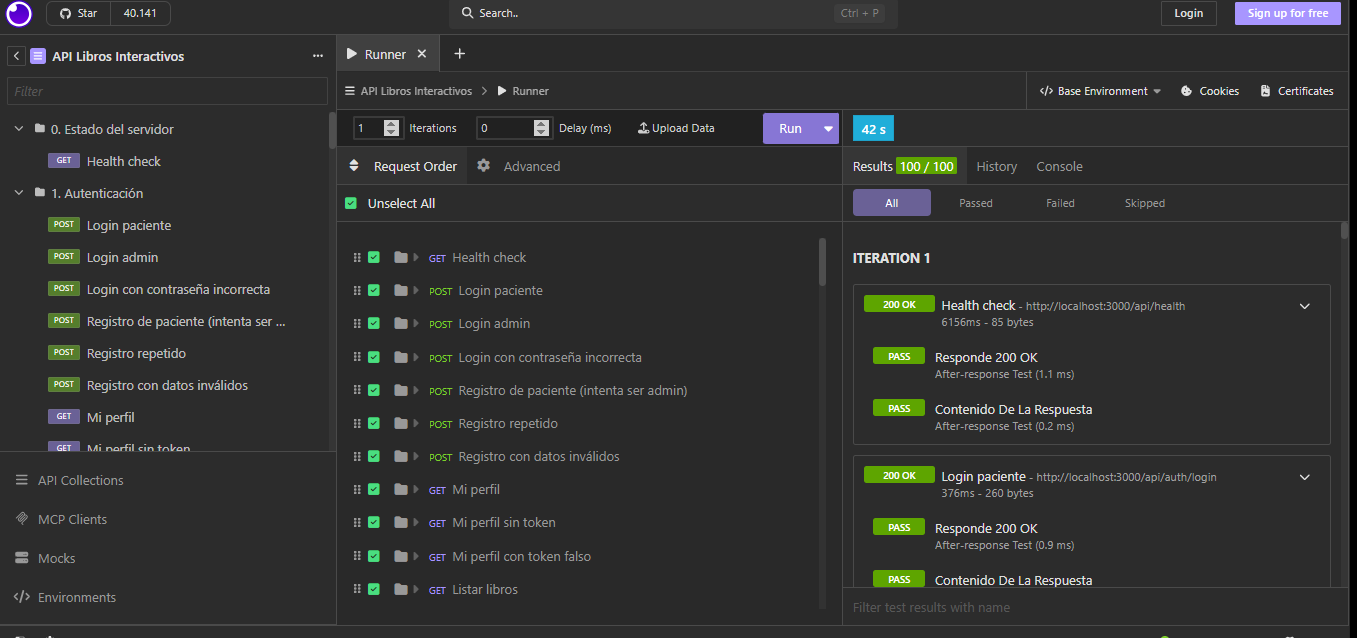
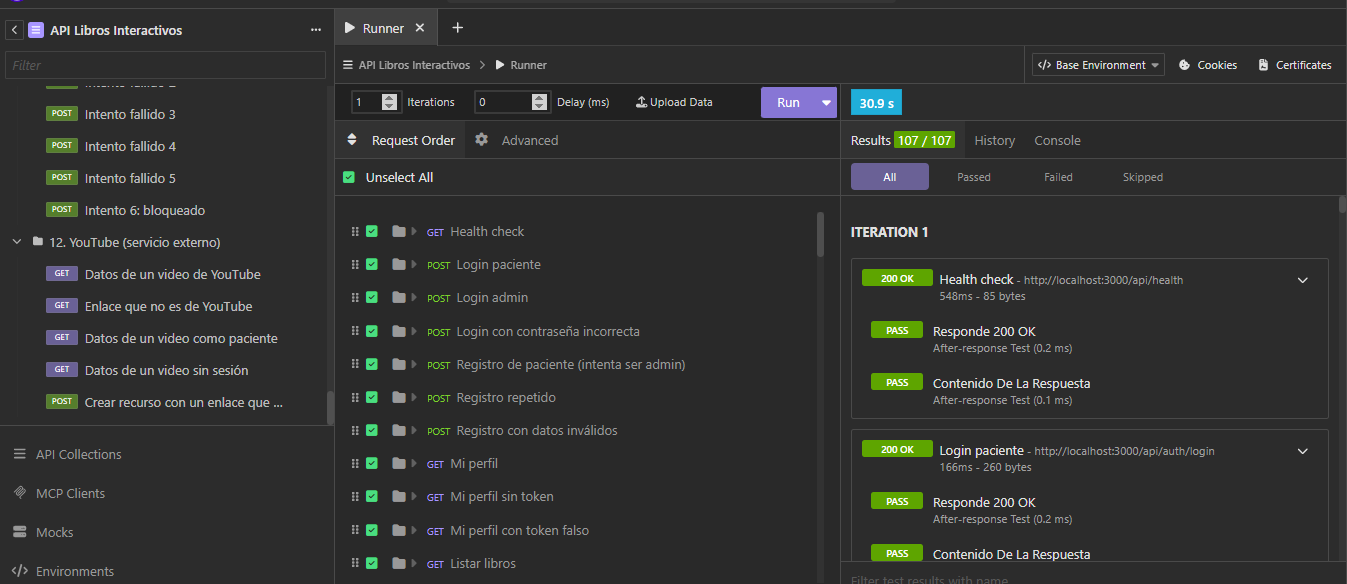
Documenta la integración con YouTube Data API (EF5)

diff --git a/README.md b/README.md
@@ -14,6 +14,7 @@
 - **Seguridad de la API (EF):** correcciones de la EP2: restricciones `CHECK` en la base de datos, desbloqueo progresivo de capítulos validado en la API (409), rol vigente en cada petición, límite de intentos de inicio de sesión (429) y `JWT_SECRET` de al menos 32 caracteres (`backend/src/`).
 - **Despliegue con Docker (EF):** Dockerfiles del backend y del frontend, nginx como servidor y proxy de la API, y `docker-compose.yml` para levantar base de datos, API y frontend.
 - **Frontend (EF):** pantallas de administración de capítulos, simulaciones (con sus opciones) y recursos, y pruebas de los interceptores de Axios con Vitest (frontend/src/services/api.test.ts).
+- **Servicio externo (EF5):** integración con la YouTube Data API para verificar los videos y obtener su duración, y botón *Completar con YouTube* en el formulario de recursos.
 - **Documentación y gestión:** README, documentación de la API, pruebas en Insomnia, ramas y evidencia de avance.
 
 ## Índice
@@ -40,6 +41,7 @@
     - [Autenticación y roles](#autenticación-y-roles)
     - [Seguridad de la API](#seguridad-de-la-api)
     - [Integración con el frontend](#integración-con-el-frontend)
+    - [Servicio externo: YouTube Data API (EF5)](#servicio-externo-youtube-data-api-ef5)
     - [Pruebas con Insomnia](#pruebas-con-insomnia)
 8. [Librerías y Tecnologías](#librerías-usadas-con-react-ionic)
 9. [Instalación y configuración](#instalación-y-configuración)
@@ -892,6 +894,7 @@ sequenceDiagram
 | Filtración de información | Los errores 500 no muestran detalles internos, el login usa un mensaje genérico y las estadísticas de pacientes muestran solo el alias. |
 | Cabeceras y orígenes | helmet agrega cabeceras HTTP de seguridad [[20]](#referencias), y CORS solo acepta peticiones del frontend (`CORS_ORIGIN`). |
 | Operaciones a medias | Se usan transacciones al crear una simulación con sus opciones y al reiniciar el progreso de un libro. |
+| Uso indebido de la clave de YouTube | Solo el administrador puede consultar `/api/youtube`. La clave está en `.env`, restringida a la YouTube Data API v3 en Google Cloud, y viaja en un encabezado, no en la URL. |
 | Secretos en el repositorio | `.env` está en `.gitignore`. Solo se sube `.env.example`, con valores de ejemplo. |
 
 ### Integración con el frontend
@@ -925,9 +928,38 @@ sequenceDiagram
 
 ![Decisión tomada en la aplicación guardada en la tabla decisiones](backend/docs/evidencias/pgadmin-decisiones.png)
 
+### Servicio externo: YouTube Data API (EF5)
+
+Casi todos los recursos multimedia de la aplicación son videos de YouTube. Para que el administrador no deje enlaces rotos ni tenga que escribir la duración a mano, la API se integra con la **YouTube Data API v3** de Google [[24]](#referencias).
+
+| Momento | Qué hace la API |
+| :--- | :--- |
+| Al crear o editar un recurso con un enlace de YouTube | Consulta el video. Si no existe, es privado o su dueño no permite reproducirlo fuera de YouTube, responde `400` y no guarda nada. Si existe, guarda su **duración real**. |
+| En el formulario de recursos, botón **Completar con YouTube** | `GET /api/youtube/video?url=...` (solo administrador) devuelve título, canal, miniatura y duración, y el formulario se completa solo. |
+| Siempre | Solo acepta enlaces que el reproductor de la app sabe usar: un video de YouTube o un archivo de audio o video (`.mp3`, `.m4a`, `.ogg`, `.wav`, `.mp4`, `.webm`). |
+
+**Cómo se maneja la integración:**
+- **Clave en variable de entorno:** `YOUTUBE_API_KEY` va en `backend/.env` (y en el `.env` de la raíz para Docker), nunca en el código. Se envía en el encabezado `X-Goog-Api-Key`, no en la URL, y en Google Cloud está restringida para usar solo la YouTube Data API v3.
+- **Errores:** si YouTube no responde en 5 segundos, se agotó la cuota o la clave no es válida, la API responde `503` con un mensaje claro y el detalle técnico queda solo en la terminal del servidor.
+- **Cuota:** cada consulta gasta 1 de las 10.000 unidades gratuitas diarias [[25]](#referencias). Los videos consultados se guardan en caché durante 1 hora para no gastar cuota repetida.
+- **Sin clave:** la aplicación sigue funcionando, pero los videos no se verifican (la API lo avisa al iniciar) y `GET /api/youtube/video` responde `503`.
+
+| Código | Cuándo |
+| :--- | :--- |
+| `200` | Se encontró el video (`GET /api/youtube/video`) |
+| `400` | El enlace no es de YouTube, el video no existe o es privado, o su dueño no permite insertarlo |
+| `401` / `403` | Sin sesión / la sesión no es de un administrador |
+| `503` | YouTube no responde, se agotó la cuota, la clave no es válida o falta `YOUTUBE_API_KEY` |
+
+El código está en `backend/src/services/youtube.service.js`, `backend/src/routes/youtube.routes.js` y `frontend/src/pages/admin/AdminResourceFormPage.tsx`. La carpeta **12** de la colección de Insomnia prueba estos casos.
+
+![El formulario de recursos completa título y duración con los datos de YouTube](img/ef5/youtube-formulario.png)
+
+![GET /api/youtube/video responde 200 con los datos del video](img/ef5/youtube-insomnia.png)
+
 ### Pruebas con Insomnia
 
-La colección [`backend/docs/insomnia-libros-interactivos.json`](backend/docs/insomnia-libros-interactivos.json) se importa en Insomnia [[18]](#referencias). Tiene **86 peticiones** en 12 carpetas, con los casos correctos y los de error de cada módulo, y **100 pruebas automáticas** que revisan el código HTTP y, en algunas, el contenido de la respuesta.
+La colección [`backend/docs/insomnia-libros-interactivos.json`](backend/docs/insomnia-libros-interactivos.json) se importa en Insomnia [[18]](#referencias). Tiene **91 peticiones** en 13 carpetas, con los casos correctos y los de error de cada módulo, y **107 pruebas automáticas** que revisan el código HTTP y, en algunas, el contenido de la respuesta.
 
 - Las peticiones obtienen el token solas desde **Login paciente** o **Login admin**, así que no hay que copiarlo a mano.
 - Las peticiones de editar y eliminar usan el id del registro creado en la misma carpeta.
@@ -942,6 +974,7 @@ La colección [`backend/docs/insomnia-libros-interactivos.json`](backend/docs/in
 | 9. Estadísticas | Solo administrador (403 para el paciente). |
 | 10. Errores generales | Ruta inexistente, JSON mal formado e intento de inyección SQL en el id. |
 | 11. Límite de intentos de login | Cinco intentos fallidos con el mismo correo y el sexto bloqueado (429). Si se vuelve a ejecutar antes de 15 minutos, todos responden 429. |
+| 12. YouTube (servicio externo) | Datos de un video (200, o 503 sin `YOUTUBE_API_KEY`), enlace que no es de YouTube (400), paciente (403), sin sesión (401) y recurso con un enlace que no es audio, video ni YouTube (400). |
 
 **Cómo ejecutarla:** en Insomnia, **Import** → elegir el archivo. Después, desde el menú de la colección, **Run** (Collection Runner) ejecuta todas las peticiones en orden y muestra cuántas pruebas pasaron.
 
@@ -1007,6 +1040,7 @@ El frontend también tiene pruebas automáticas con Vitest (npm run test.unit --
 - **PostgreSQL** (base de datos relacional)
 - **JWT + bcrypt** (autenticación y contraseñas)
 - **Insomnia** (pruebas de la API)
+- **YouTube Data API v3** (servicio externo: verifica los videos y obtiene su duración)
 - **Docker + Docker Compose** (despliegue local con contenedores) y **nginx** (sirve el frontend y reenvía /api)
 - **Figma** (prototipo UI/UX)
 - **Capacitor** (empaquetado móvil proyectado, Android 10+ / iOS 16.4+)
@@ -1070,6 +1104,7 @@ Luego hay que completar el archivo `.env`:
 | `CORS_ORIGIN` | URL del frontend que puede llamar a la API | `http://localhost:5173` |
 | `JWT_SECRET` | Clave secreta para firmar los tokens. **Mínimo 32 caracteres**: con una más corta o con el valor de ejemplo, el servidor no arranca | Una cadena aleatoria de 64 caracteres (ver abajo) |
 | `JWT_EXPIRES_IN` | Duración del token | `2h` |
+| `YOUTUBE_API_KEY` | Clave de la YouTube Data API v3. Opcional: sin ella, los videos de YouTube no se verifican | La que se crea en Google Cloud (APIs y servicios → Credenciales → Clave de API) |
 
 Para generar `JWT_SECRET`:
 
@@ -1171,6 +1206,7 @@ Se definen en un archivo `.env` en la raíz del repositorio, a partir de la plan
 | :--- | :--- | :--- |
 | `DB_PASSWORD` | Contraseña de PostgreSQL dentro del contenedor | Letras y números |
 | `JWT_SECRET` | Clave para firmar los tokens (mínimo 32 caracteres) | Una cadena aleatoria (ver abajo) |
+| `YOUTUBE_API_KEY` | Clave de la YouTube Data API v3 (opcional) | La misma de `backend/.env` |
 
 Para generar `JWT_SECRET` sin tener Node.js instalado:
 
@@ -1315,3 +1351,5 @@ El código fue revisado, adaptado, probado y modificado por el equipo, que tambi
 21. Vite. *Build Options: build.target*. https://vite.dev/config/build-options#build-target
 22. express-rate-limit. *Documentación*. https://www.npmjs.com/package/express-rate-limit
 23. OWASP. *Authentication Cheat Sheet* (protección contra ataques automatizados). https://cheatsheetseries.owasp.org/cheatsheets/Authentication_Cheat_Sheet.html
+24. Google for Developers. *YouTube Data API: Videos: list*. https://developers.google.com/youtube/v3/docs/videos/list
+25. Google for Developers. *YouTube Data API: Getting Started* (cuota de uso). https://developers.google.com/youtube/v3/getting-started

diff --git a/backend/docs/endpoints.md b/backend/docs/endpoints.md
@@ -21,6 +21,7 @@ API del **Sistema de Libros Interactivos de Simulación** (EP2). Está construid
    - [Progreso del paciente](#progreso-del-paciente)
    - [Decisiones del paciente](#decisiones-del-paciente)
    - [Estadísticas](#estadísticas)
+   - [YouTube (servicio externo)](#youtube-servicio-externo)
 4. [Seguridad](#seguridad)
 5. [Pruebas con Insomnia](#pruebas-con-insomnia)
 
@@ -68,6 +69,7 @@ Si los datos enviados no pasan la validación, también llega la lista `detalles
 | `409 Conflict` | Valor repetido (por ejemplo, un correo ya registrado) o una acción que no corresponde al estado actual, como completar un capítulo cuando el anterior está pendiente |
 | `429 Too Many Requests` | Demasiados intentos fallidos de inicio de sesión: 5 en 15 minutos para el mismo correo desde la misma IP |
 | `500 Internal Server Error` | Error inesperado. Se registra en la terminal del servidor y al cliente solo le llega un mensaje genérico |
+| `503 Service Unavailable` | YouTube no responde, se agotó la cuota o falta `YOUTUBE_API_KEY` (solo al guardar recursos de YouTube y en `/youtube/video`) |
 
 ### Ids y filtros
 
@@ -100,6 +102,7 @@ Si los datos enviados no pasan la validación, también llega la lista `detalles
 | Libros, capítulos, personajes, simulaciones, recursos | Ver | Ver, crear, editar y eliminar |
 | Progreso y decisiones | Solo los propios | Solo los propios |
 | Estadísticas | — | Ver |
+| YouTube (datos de un video) | — | Ver |
 
 ---
 
@@ -347,8 +350,10 @@ Respuesta de `GET /simulaciones/1`:
 | `tipo` | Obligatorio. `video` o `audio` |
 | `titulo` | Obligatorio. De 3 a 100 caracteres |
 | `descripcion` | Opcional. Hasta 300 caracteres |
-| `url` | Opcional. Dirección `http://` o `https://`, hasta 500 caracteres |
+| `url` | Opcional, hasta 500 caracteres. Un video de YouTube (`youtube.com/watch?v=`, `youtu.be/`, `shorts/` o `embed/`), un archivo de `/media/` o la dirección `http(s)://` de un archivo `.mp3`, `.m4a`, `.ogg`, `.wav`, `.mp4` o `.webm`. Cualquier otra página responde `400` |
 | `duracion_segundos` | Opcional. Entero entre 1 y 86.400 |
+
+**Videos de YouTube:** si `YOUTUBE_API_KEY` está configurada, al crear o editar un recurso con un enlace de YouTube la API consulta el video en la YouTube Data API. Si no existe, es privado o no se puede insertar, responde `400` y no guarda nada; si existe, guarda su duración real en `duracion_segundos`. Si YouTube no responde, responde `503`.
 
 ### Progreso del paciente
 
@@ -444,6 +449,31 @@ Igual que el progreso, el usuario se obtiene del token.
 }
 ```
 
+### YouTube (servicio externo)
+
+| Método | Ruta | Acceso | Descripción |
+|---|---|---|---|
+| `GET` | `/youtube/video?url=` | Admin | Datos de un video de YouTube, consultados en la YouTube Data API v3. Lo usa el botón *Completar con YouTube* del formulario de recursos |
+
+```json
+{
+  "data": {
+    "id": "1NSM3mhgwv0",
+    "titulo": "Título del video en YouTube",
+    "canal": "Nombre del canal",
+    "miniatura": "https://i.ytimg.com/vi/1NSM3mhgwv0/mqdefault.jpg",
+    "duracion_segundos": 256
+  }
+}
+```
+
+| Respuesta | Cuándo |
+|---|---|
+| `400` | `url` no es un enlace de YouTube, o el video no existe, es privado o su dueño no permite insertarlo |
+| `503` | Falta `YOUTUBE_API_KEY`, YouTube no responde en 5 segundos, se agotó la cuota diaria o la clave no es válida (el detalle queda en la terminal) |
+
+Los videos consultados se guardan en caché durante 1 hora para no gastar cuota repetida. `duracion_segundos` es `null` en una transmisión en vivo.
+
 ---
 
 ## Seguridad
@@ -466,12 +496,13 @@ Igual que el progreso, el usuario se obtiene del token.
 | Las restricciones de la base de datos (UNIQUE, FOREIGN KEY, CHECK) se traducen a `400` o `409` | `utils/pgErrors.js` |
 | Transacciones en operaciones de varios pasos (crear simulación con opciones, reiniciar libro) | `utils/transaccion.js` |
 | Login con mensaje genérico, que no revela qué correos existen | `services/auth.service.js` |
+| La clave de YouTube está en `YOUTUBE_API_KEY` (`.env`), viaja en el encabezado `X-Goog-Api-Key` y solo el administrador puede usar `/youtube/video` | `services/youtube.service.js`, `routes/youtube.routes.js` |
 
 ---
 
 ## Pruebas con Insomnia
 
-La colección [`insomnia-libros-interactivos.json`](./insomnia-libros-interactivos.json) tiene **86 peticiones** en 12 carpetas, con **100 pruebas automáticas**: los casos correctos y los de error (400, 401, 403, 404, 409 y 429) de cada módulo. Cada petición incluye:
+La colección [`insomnia-libros-interactivos.json`](./insomnia-libros-interactivos.json) tiene **91 peticiones** en 13 carpetas, con **107 pruebas automáticas**: los casos correctos y los de error (400, 401, 403, 404, 409, 429 y 503) de cada módulo. Cada petición incluye:
 
 - Una descripción, en la pestaña **Docs**, con la respuesta esperada.
 - Pruebas automáticas.
